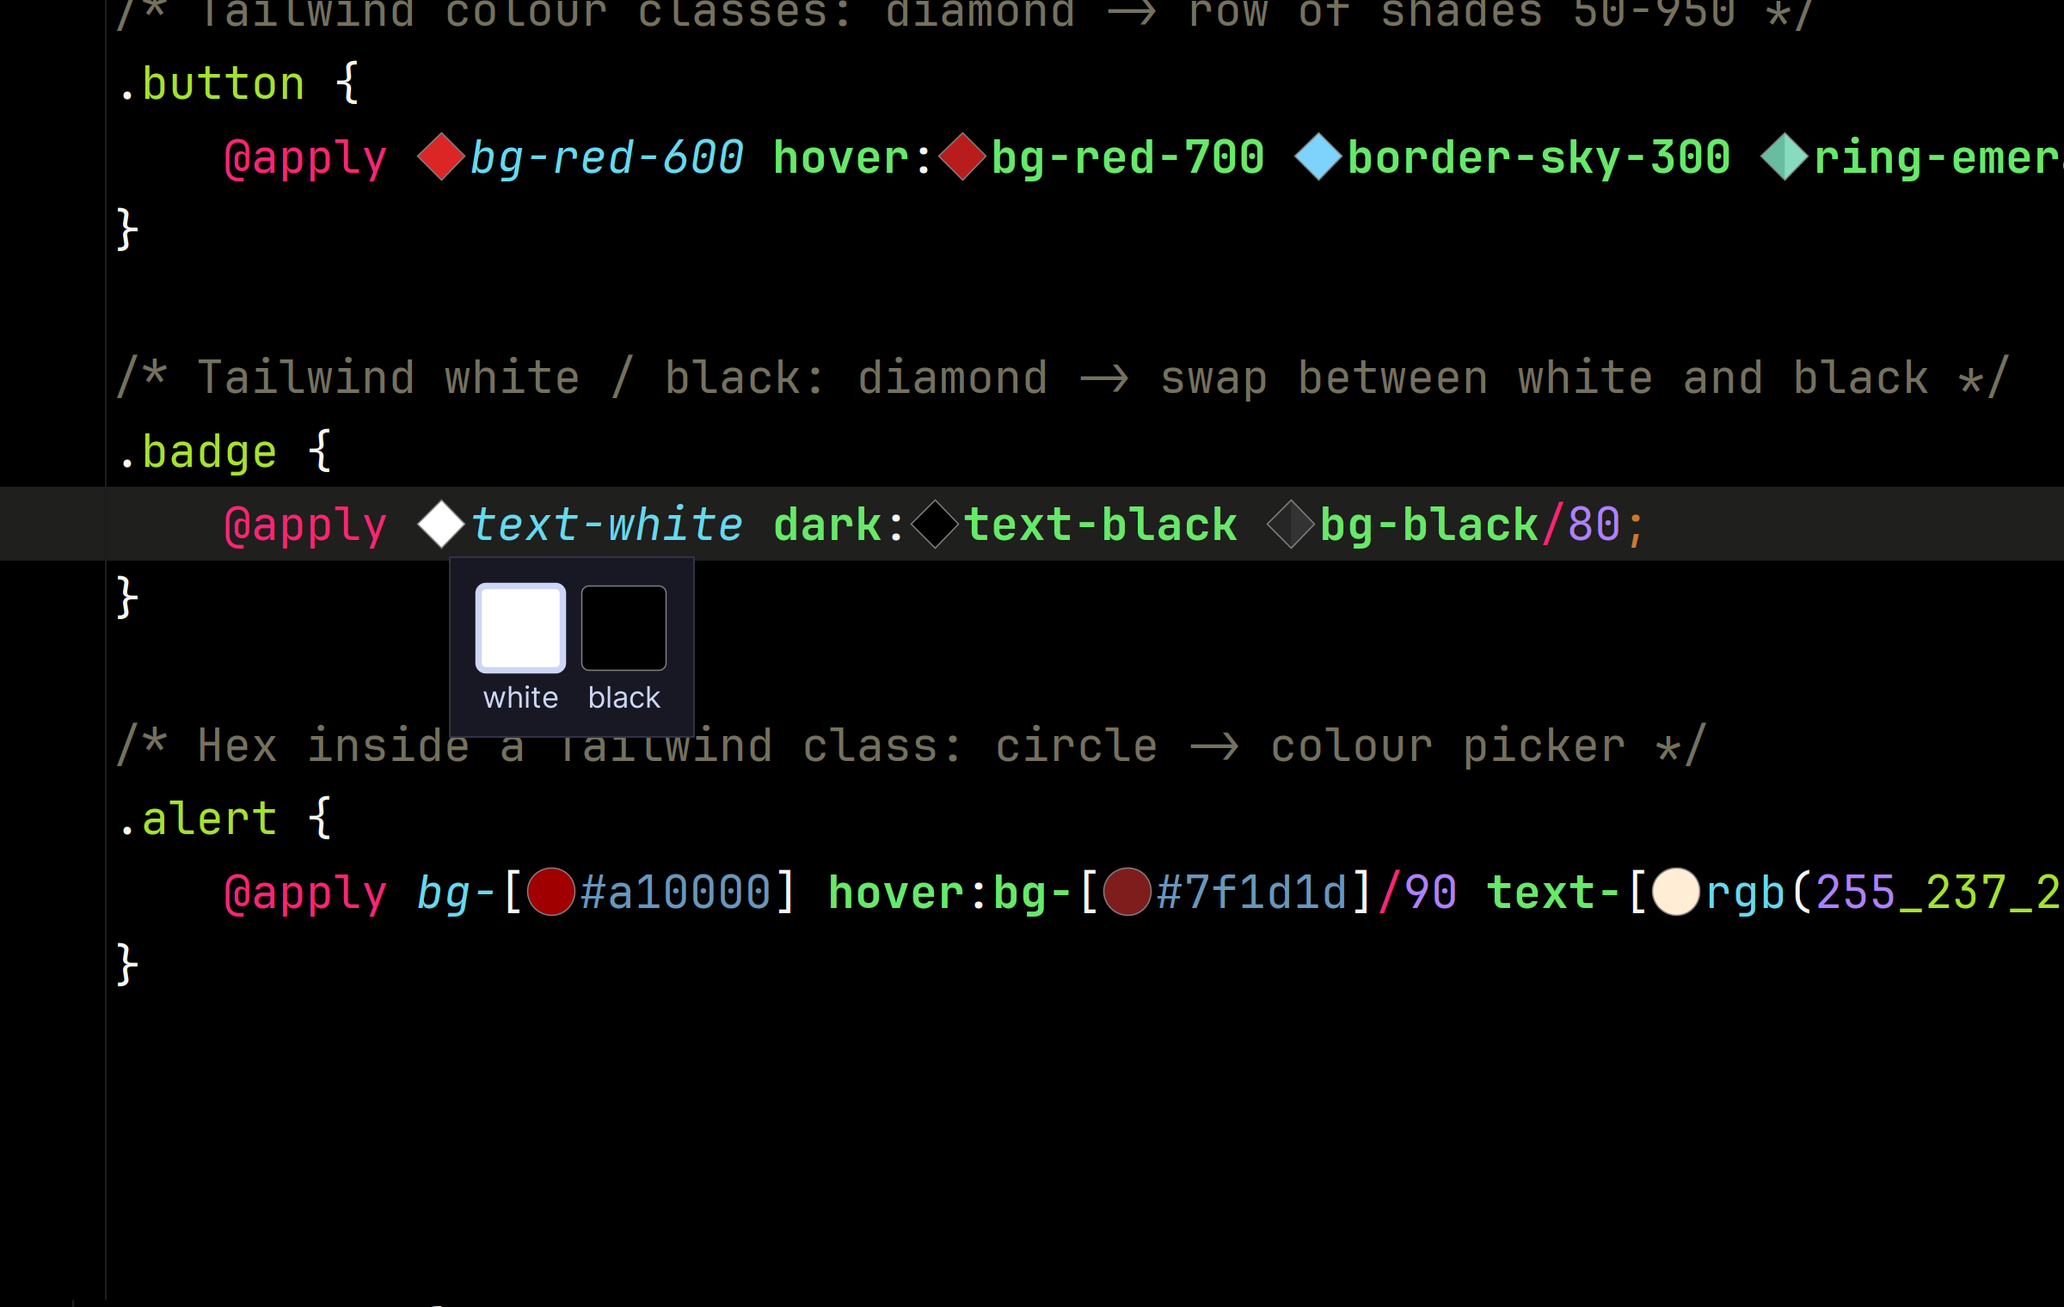
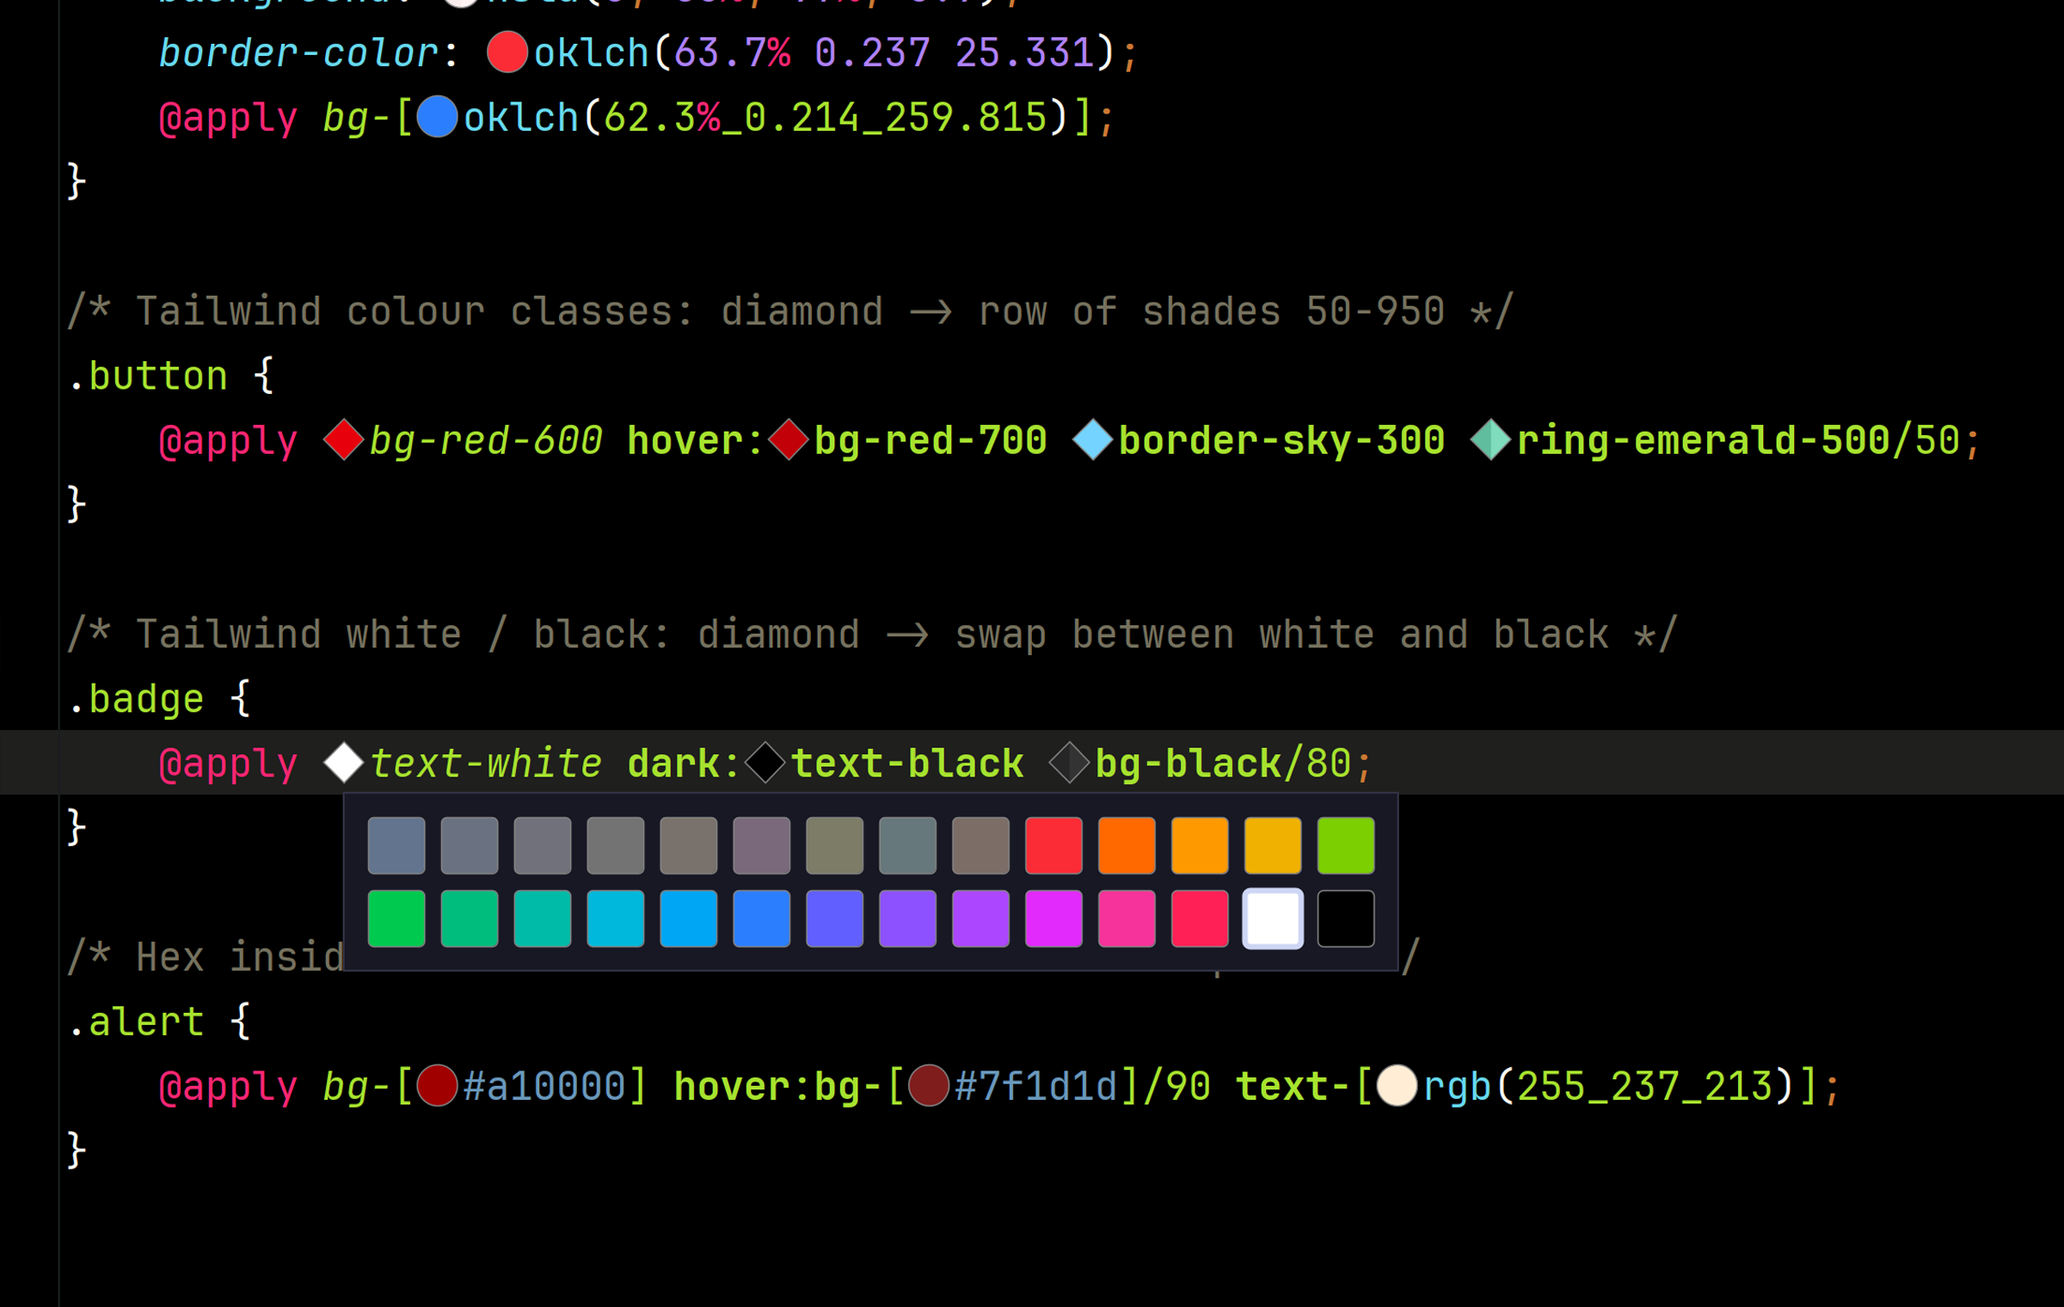
Hex Swatch 1.7.0: Tailwind colour swap - The diamond popup also shows every Tailwind colour at the current shade   (small boxes, name in the tooltip); picking one changes only the colour   name (hover:bg-red-500/50 -> hover:bg-blue-500/50). On by default. - White and black are in the same rows: bg-r

diff --git a/docs/screenshots/demo.css b/docs/screenshots/demo.css
@@ -28,7 +28,7 @@
     @apply bg-red-600 hover:bg-red-700 border-sky-300 ring-emerald-500/50;
 }
 
-/* Tailwind white / black: diamond -> swap between white and black */
+/* Tailwind white / black: diamond -> swap between all colours */
 .badge {
     @apply text-white dark:text-black bg-black/80;
 }

diff --git a/src/main/java/hexswatch/HexSwatchListener.java b/src/main/java/hexswatch/HexSwatchListener.java
@@ -2,9 +2,9 @@
 //   - Hex colours (#abc, #aabbcc, #aabbccaa)            -> circle  -> PhpStorm's colour picker
 //   - rgb()/rgba() (rgb(255, 0, 0), rgb(255 0 0 / 50%)) -> circle  -> same picker, written back in the same style
 //   - hsl()/hsla() (hsl(0 100% 50%)), oklch() (oklch(63.7% 0.237 25.331)) -> circle -> same picker, same style
-//   - Tailwind colour classes (hover:bg-red-600, /50)  -> diamond -> a row of that colour's shades (50-950)
-//     Colours follow the project's Tailwind version: 3 or 4 (tableFor()).
-//   - Tailwind white/black (text-white, bg-black/50)   -> diamond -> white / black, to swap between them
+//   - Tailwind colour classes (hover:bg-red-600, /50)  -> diamond -> a row of that colour's shades (50-950),
+//     and under it every colour at that shade, to swap the colour name. Follows the project's Tailwind 3 or 4.
+//   - Tailwind white/black (text-white, bg-black/50)   -> diamond -> every colour at 500, plus white and black
 //   - Tailwind sizes (p-4, -mt-2, w-8, text-sm, rounded-lg, shadow-md) -> no mark; a plain click on the class
 //     shows a row of its sizes. Off by default: Settings -> Tools -> Hex Swatch (Settings / SettingsPage below).
 //
@@ -607,13 +607,14 @@ public class HexSwatchListener implements EditorFactoryListener {
         return number.contains(".") ? number.replaceAll("0+$", "").replaceAll("\\.$", "") : number;
     }
 
-    // ---- 4b. Tailwind: a row of the 11 shades; click one to swap the shade number ---------------
+    // ---- 4b. Tailwind: the 11 shades, and under them every colour at the current shade ----------
 
     // Returns false if the mark isn't a <colour>-<shade> class (then it's white/black, see 4c).
     private static boolean showShades(Editor editor, int start, MouseEvent click) {
         Matcher m = TW.matcher(editor.getDocument().getImmutableCharSequence());
         if (!m.find(start) || m.start() != start) return false;
         String name = m.group(1);
+        String shade = m.group(2);
         String[] hexes = shadesFor(editor.getProject(), name);
 
         Color[] colors = new Color[SHADES.length];
@@ -622,23 +623,72 @@ public class HexSwatchListener implements EditorFactoryListener {
             colors[i] = parseHex(hexes[i].substring(1));
             tips[i] = name + "-" + SHADES[i] + "  " + hexes[i];
         }
-        // "hover:bg-red-600/50" -> "hover:bg-red-500/50": only the shade number (group 2) changes.
-        showRow(editor, start, click, SHADES, colors, tips, m.group(2), true,
-                shade -> replaceGroup(editor, start, TW, 2, shade, "Change Tailwind Shade"));
+        JBPopup[] popup = new JBPopup[1]; // filled in by showPopup(); the cells need it to close the popup
+        // Top row: "hover:bg-red-600/50" -> "hover:bg-red-500/50": only the shade number (group 2) changes.
+        JPanel shadeRow = grid(SHADES, colors, tips, shade, SHADES.length, true, popup,
+                s -> replaceGroup(editor, start, TW, 2, s, "Change Tailwind Shade"));
+        // Colour rows: "bg-red-500/50" -> "bg-blue-500/50" (group 1 changes),
+        // or -> "bg-white/50" (colour and shade, groups 1 to 2, become the one word).
+        JPanel colourRows = colourGrid(editor.getProject(), shade, name, popup, colour ->
+                replaceGroups(editor, start, TW, 1, isBlackOrWhite(colour) ? 2 : 1, colour, "Change Tailwind Colour"));
+        showPopup(editor, start, click, stack(shadeRow, colourRows), true, popup);
         return true;
     }
 
-    // ---- 4c. Tailwind white/black: two choices; click one to swap the word ----------------------
+    // ---- 4c. Tailwind white/black: only the colour rows (no shades), at 500 --------------------
 
     private static void showBlackWhite(Editor editor, int start, MouseEvent click) {
         Matcher m = TW_BW.matcher(editor.getDocument().getImmutableCharSequence());
         if (!m.find(start) || m.start() != start) return;
 
-        String[] words = {"white", "black"};
-        // "text-white/80" -> "text-black/80": only the word (group 1) changes.
-        showRow(editor, start, click, words, new Color[]{Color.WHITE, Color.BLACK},
-                new String[]{"white  #ffffff", "black  #000000"},
-                m.group(1), true, word -> replaceGroup(editor, start, TW_BW, 1, word, "Change Tailwind Colour"));
+        JBPopup[] popup = new JBPopup[1];
+        // "text-white/80" -> "text-black/80" or "text-red-500/80": the word (group 1) changes; a colour gets "-500".
+        JPanel colourRows = colourGrid(editor.getProject(), "500", m.group(1), popup, colour ->
+                replaceGroup(editor, start, TW_BW, 1, isBlackOrWhite(colour) ? colour : colour + "-500", "Change Tailwind Colour"));
+        showPopup(editor, start, click, stack(colourRows), true, popup);
+    }
+
+    // Every colour of this project's Tailwind at one shade, then white and black, in two rows of small
+    // unlabelled boxes (the tooltip gives the name). `current` is outlined. A click calls onPick with the colour name.
+    private static JPanel colourGrid(Project project, String shade, String current, JBPopup[] popup, Consumer<String> onPick) {
+        Map<String, String[]> table = tableFor(project);
+        int n = table.size() + 2;
+        String[] names = new String[n];
+        Color[] colors = new Color[n];
+        String[] tips = new String[n];
+        int i = 0;
+        for (Map.Entry<String, String[]> e : table.entrySet()) {
+            String hex = e.getValue()[shadeIndex(shade)];
+            names[i] = e.getKey();
+            colors[i] = parseHex(hex.substring(1));
+            tips[i] = e.getKey() + "-" + shade + "  " + hex;
+            i++;
+        }
+        names[i] = "white";
+        colors[i] = Color.WHITE;
+        tips[i++] = "white  #ffffff";
+        names[i] = "black";
+        colors[i] = Color.BLACK;
+        tips[i] = "black  #000000";
+        return grid(names, colors, tips, current, (n + 1) / 2, false, popup, onPick);
+    }
+
+    private static boolean isBlackOrWhite(String word) {
+        return word.equals("white") || word.equals("black");
+    }
+
+    // Puts the rows under each other, left-aligned, with a small gap between them.
+    private static JPanel stack(JPanel... rows) {
+        JPanel box = new JPanel();
+        box.setLayout(new BoxLayout(box, BoxLayout.Y_AXIS));
+        box.setBorder(JBUI.Borders.empty(6));
+        for (int i = 0; i < rows.length; i++) {
+            if (i > 0) box.add(Box.createVerticalStrut(JBUI.scale(6)));
+            rows[i].setAlignmentX(Component.LEFT_ALIGNMENT);
+            rows[i].setMaximumSize(rows[i].getPreferredSize()); // don't stretch to the widest row
+            box.add(rows[i]);
+        }
+        return box;
     }
 
     // ---- 4d. Tailwind sizes: a plain click on p-4, w-8, text-sm... shows a row of sizes ----------
@@ -708,22 +758,24 @@ public class HexSwatchListener implements EditorFactoryListener {
 
     // ---- Shared by 4b, 4c and 4d ---------------------------------------------------------------
 
-    // A popup row of boxes with labels; the current one is outlined; a click calls onPick with its label.
-    // colors null = text-only boxes (sizes). Long rows wrap at 18. takeFocus false = the editor keeps the keyboard
-    // and any key press closes the row, so the click that opened it still works as a normal click. It also doesn't
-    // close itself on an outside click (that would swallow the click and break double-click word selection):
-    // the editor's mousePressed closes it instead, and leaving the editor (focus lost) closes it too.
+    // A popup with one row of boxes (sizes). See grid() for the boxes and showPopup() for how it behaves.
     private static JBPopup showRow(Editor editor, int start, MouseEvent click, String[] labels, Color[] colors,
                                    String[] tips, String current, boolean takeFocus, Consumer<String> onPick) {
-        int columns = Math.min(labels.length, 18);
-        int rows = (labels.length + columns - 1) / columns;
-        JPanel row = new JPanel(new GridLayout(rows, columns, JBUI.scale(2), JBUI.scale(2)));
+        JBPopup[] popup = new JBPopup[1]; // filled in by showPopup(); the cells need it to close the popup
+        JPanel row = grid(labels, colors, tips, current, Math.min(labels.length, 18), true, popup, onPick);
         row.setBorder(JBUI.Borders.empty(6));
-        JBPopup[] popup = new JBPopup[1]; // filled in below; the cells need it to close the popup
+        return showPopup(editor, start, click, row, takeFocus, popup);
+    }
 
+    // Boxes in a grid, `columns` wide; the current one is outlined; a click calls onPick with its label and closes
+    // popup[0]. colors null = text-only boxes (sizes). showLabels false = small colour boxes, name only in the tooltip.
+    private static JPanel grid(String[] labels, Color[] colors, String[] tips, String current, int columns,
+                               boolean showLabels, JBPopup[] popup, Consumer<String> onPick) {
+        int rows = (labels.length + columns - 1) / columns;
+        JPanel grid = new JPanel(new GridLayout(rows, columns, JBUI.scale(2), JBUI.scale(2)));
         for (int i = 0; i < labels.length; i++) {
             String label = labels[i];
-            ShadeCell cell = new ShadeCell(colors == null ? null : colors[i], label, label.equals(current));
+            ShadeCell cell = new ShadeCell(colors == null ? null : colors[i], label, label.equals(current), showLabels);
             cell.setToolTipText(tips[i]);
             cell.addMouseListener(new MouseAdapter() {
                 @Override
@@ -732,9 +784,17 @@ public class HexSwatchListener implements EditorFactoryListener {
                     popup[0].cancel();
                 }
             });
-            row.add(cell);
+            grid.add(cell);
         }
+        return grid;
+    }
 
+    // Shows `row` under (or above) the clicked line. takeFocus false = the editor keeps the keyboard
+    // and any key press closes the row, so the click that opened it still works as a normal click. It also doesn't
+    // close itself on an outside click (that would swallow the click and break double-click word selection):
+    // the editor's mousePressed closes it instead, and leaving the editor (focus lost) closes it too.
+    private static JBPopup showPopup(Editor editor, int start, MouseEvent click, JPanel row, boolean takeFocus,
+                                     JBPopup[] popup) {
         popup[0] = JBPopupFactory.getInstance()
                 .createComponentPopupBuilder(row, null)
                 .setRequestFocus(takeFocus)
@@ -785,6 +845,13 @@ public class HexSwatchListener implements EditorFactoryListener {
     // Re-find the colour at `start` and replace one regex group in it (0 = all of it).
     // The group id makes every change from one picker drag undo as a single step.
     private static void replaceGroup(Editor editor, int start, Pattern pattern, int group, String text, String undoName) {
+        replaceGroups(editor, start, pattern, group, group, text, undoName);
+    }
+
+    // Same, but replaces everything from the start of group `first` to the end of group `last`
+    // ("red-500" in bg-red-500/50 is groups 1 to 2).
+    private static void replaceGroups(Editor editor, int start, Pattern pattern, int first, int last, String text,
+                                      String undoName) {
         Document doc = editor.getDocument();
         Matcher m = pattern.matcher(doc.getImmutableCharSequence());
         if (!m.find(start) || m.start() != start) return; // text moved or was edited meanwhile
@@ -792,22 +859,26 @@ public class HexSwatchListener implements EditorFactoryListener {
         WriteCommandAction.writeCommandAction(editor.getProject())
                 .withName(undoName)
                 .withGroupId("hexswatch-" + start)
-                .run(() -> doc.replaceString(m.start(group), m.end(group), text));
+                .run(() -> doc.replaceString(m.start(first), m.end(last), text));
     }
 
     // One choice in the popup: a colour box with its label ("600", "white") underneath; the current one is outlined.
-    // color null = a size: just the label ("4", "lg") in a box.
+    // color null = a size: just the label ("4", "lg") in a box. showLabel false = a smaller colour box, no label
+    // (the colour rows; the name is in the tooltip).
     static class ShadeCell extends JComponent {
         final Color color;
         final String shade;
         final boolean current;
+        final boolean showLabel;
 
-        ShadeCell(Color color, String shade, boolean current) {
+        ShadeCell(Color color, String shade, boolean current, boolean showLabel) {
             this.color = color;
             this.shade = shade;
             this.current = current;
+            this.showLabel = showLabel;
             int labelWidth = getFontMetrics(JBUI.Fonts.miniFont()).stringWidth(shade) + JBUI.scale(6);
-            setPreferredSize(new Dimension(Math.max(JBUI.scale(30), labelWidth), JBUI.scale(color == null ? 24 : 42)));
+            setPreferredSize(!showLabel ? new Dimension(JBUI.scale(24), JBUI.scale(24))
+                    : new Dimension(Math.max(JBUI.scale(30), labelWidth), JBUI.scale(color == null ? 24 : 42)));
             setCursor(Cursor.getPredefinedCursor(Cursor.HAND_CURSOR));
         }
 
@@ -833,6 +904,7 @@ public class HexSwatchListener implements EditorFactoryListener {
             g.setColor(current ? JBColor.foreground() : JBColor.GRAY);
             g.setStroke(new BasicStroke(current ? JBUIScale.scale(2f) : 1f));
             g.drawRoundRect(x, x, box, box, JBUI.scale(4), JBUI.scale(4));
+            if (!showLabel) return;
 
             g.setColor(JBColor.foreground());
             g.setFont(JBUI.Fonts.miniFont());

diff --git a/docs/plans/done/tailwind-colour-swap.md b/docs/plans/done/tailwind-colour-swap.md
@@ -1,0 +1,26 @@
+# Tailwind colour swap
+
+**Status:** ✅ Released as 1.7.0 (2026-11-24). On by default (no setting).
+
+Clicking the diamond on `bg-red-500` shows the shade row as now, plus a second row underneath: every Tailwind
+colour at the current shade (`slate-500`, `gray-500` … `rose-500`, white, black). Clicking one swaps only the
+colour name (`bg-red-500` → `bg-blue-500`, `hover:text-red-500/50` → `hover:text-blue-500/50`).
+
+## How it behaves
+- One swatch per colour at the current shade, never the full colour × shade grid
+- Tooltip with the colour name on each swatch (the greys look alike)
+- Current colour marked, like the current shade is now
+- `red-500` → white/black drops the shade; white/black → a colour adds `-500`
+- On `bg-white`/`bg-black`: shade row hidden, colour row shows the 500s
+- Colour list follows Tailwind 3 or 4, like the shade tables
+- Both rows together still never cover the line (same rule as 1.4.1), near the bottom of the editor too
+
+## Steps
+- [x] Colour rows under the shade row: small boxes, no labels, two rows (14 wide on V4, 12 on V3)
+- [x] Rewrite the colour name, keep prefix, shade and `/opacity`
+- [x] white/black cases
+- [x] Builds; verifyPlugin compatible on all three
+- [x] Ben tried it: kept as is
+- [x] README, description, change notes, version 1.7.0 (zip built and verified)
+- [x] README screenshots of the new popup (Ben)
+- [x] Commit and push

diff --git a/README.md b/README.md
@@ -11,7 +11,9 @@ before every colour in **any** file, including places the IDE's own swatches mis
   a **circle**, same picker, written back in the same format and style.
 - **Tailwind colour classes** (`border-red-600`, `hover:text-sky-300/50`): a **diamond**.
   Click it for a row of that colour's shades, 50 to 950; only the shade number changes.
-  `text-white`, `bg-black/50` and the like get a diamond too: click it to swap between white and black.
+  Under the shades is every Tailwind colour at the current shade; pick one and only the colour name changes
+  (`bg-red-500` → `bg-blue-500`). Hover a colour for its name.
+  `text-white`, `bg-black/50` and the like get a diamond too: click it for every colour at 500, plus white and black.
   Colours follow the project's Tailwind version (3 or 4, read from `node_modules` or `package.json`).
 - **Tailwind sizes** (off by default): click a size class like `p-4`, `-mt-2`, `w-12`, `text-lg`, `rounded-md` or
   `shadow-sm` for a row of sizes; only the size changes (`hover:px-4` → `hover:px-6`). No marks, and any key closes

diff --git a/docs/CHANGELOG.md b/docs/CHANGELOG.md
@@ -1,4 +1,8 @@
 # Changelog
 
 ## 2026-11-24
+- 17:37 1.7.0 committed and pushed; plan moved to done
+- 17:23 1.7.0: version, change notes, description, README for the colour swap; zip built and verified
+- 17:21 Tailwind colour swap: colour rows under the shade row (code built, not released, version still 1.6.0)
+- 17:17 Plan written: Tailwind colour swap (docs only, no code)
 - 06:52 1.6.0: Tailwind size picker released (version, change notes, description, README; zip built and verified)

diff --git a/docs/MASTER_PLAN.md b/docs/MASTER_PLAN.md
@@ -4,3 +4,4 @@
 |---|------|--------|
 | 1 | [Performance](plans/performance.md) | ⏸ Parked: waiting for real circumstances of performance noticed by Ben |
 | 2 | [Tailwind size picker](plans/done/tailwind-sizes.md) | ✅ Released as 1.6.0 |
+| 3 | [Tailwind colour swap](plans/done/tailwind-colour-swap.md) | ✅ Released as 1.7.0 |
